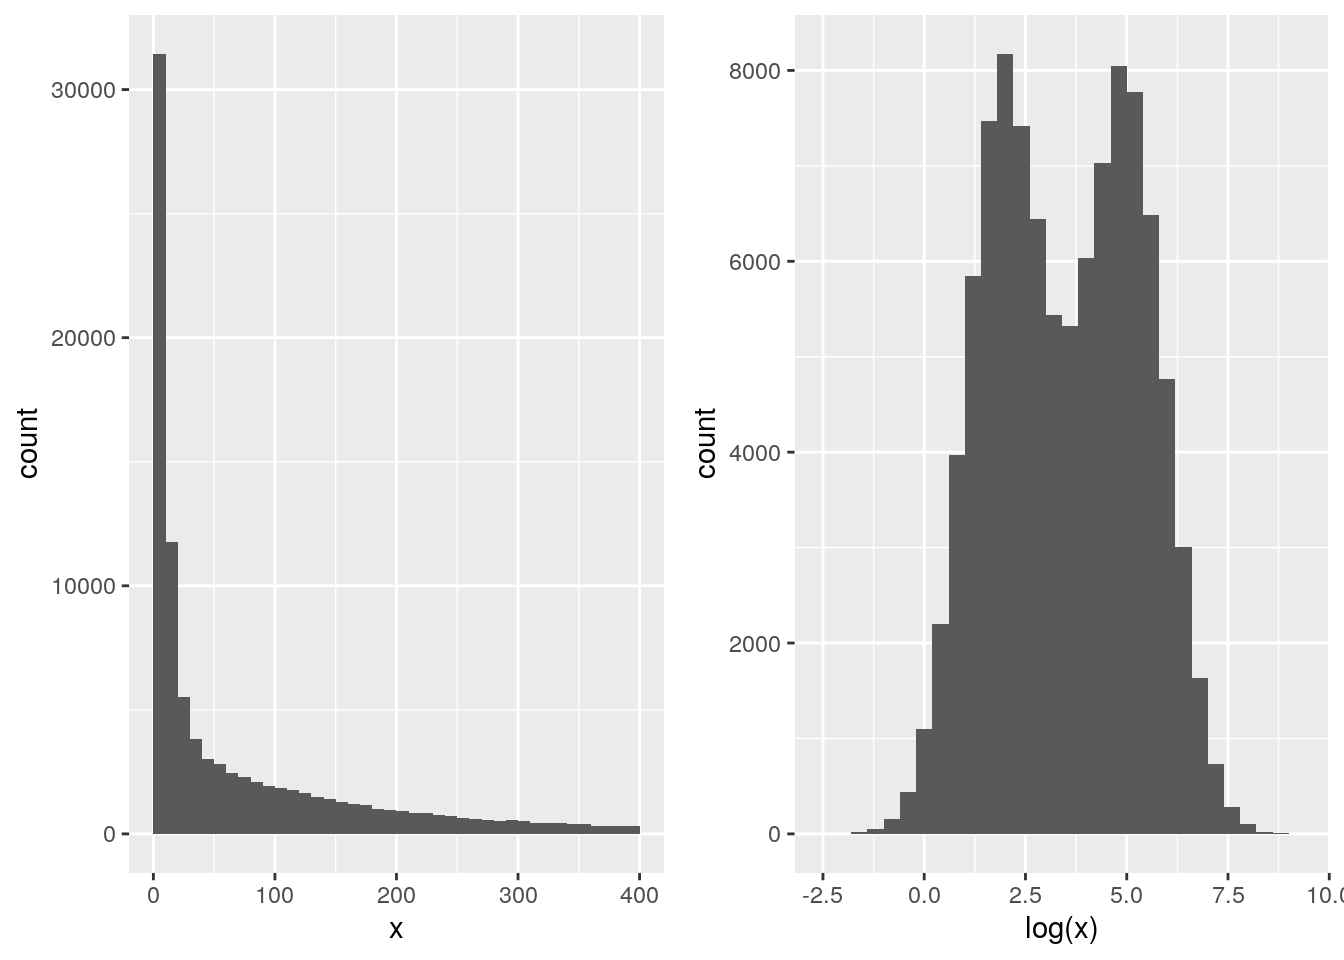
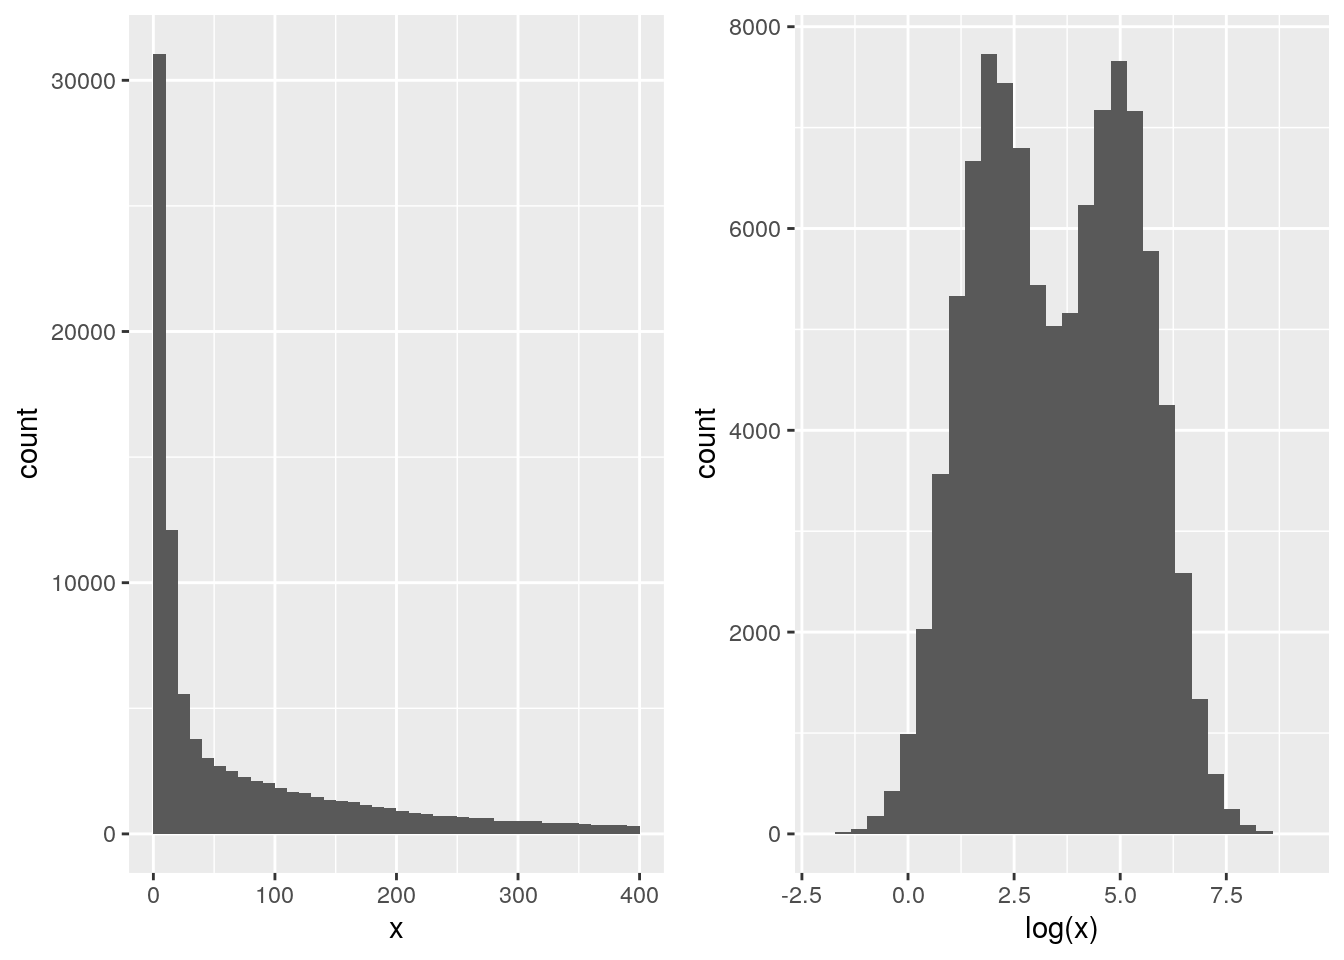
finish clust chap

diff --git a/docs/sec-ul.html b/docs/sec-ul.html
@@ -404,19 +404,8 @@ Figure 9.4: PCA analysis of the <code>giris</code> data, highlighting the origin
 </div>
 <div id="how-does-k-means-work" class="section level3 unnumbered">
 <h3>How does k-means work</h3>
-<p>The algorithm is as follows:</p>
-<ol style="list-style-type: decimal">
-<li>Start from a matrix of <em>n</em> features in <em>p</em> observations.</li>
-<li>
-<strong>Initisalistion</strong>: randomly assign the <em>p</em> obervations to <em>k</em> clusters.</li>
-<li>
-<strong>Iteration (1)</strong>: Calculate the centre of each subgroup as the average position of all observations is that subgroup.</li>
-<li>
-<strong>Iteration (2)</strong>: Each observation is then assigned to the group of its nearest centre.</li>
-<li>
-<strong>Termination</strong>: Repeat steps 3 and 4 until no obervation changes its cluster membership.</li>
-</ol>
-<p><strong>Initialisation</strong>: randomly assign class membership</p>
+<p>The algorithm starts from a matrix of <em>n</em> features in <em>p</em> observations and proceeds as follows:</p>
+<p><strong>Initialisation</strong>: randomly assign the <em>p</em> obervations to <em>k</em> clusters.</p>
 <div class="figure">
 <span id="fig:kmworksinit"></span>
 <p class="caption marginnote shownote">
@@ -436,7 +425,7 @@ Figure 9.5: k-means random intialisation
 Figure 9.6: k-means iteration: calculate centers (left) and assign new cluster membership (right)
 </p>
 </div>
-<p><strong>Termination</strong>: Repeat iteration until no point changes its cluster membership.</p>
+<p><strong>Termination</strong>: Repeat the iteration steps until no point changes its cluster membership.</p>
 <div class="figure" style="text-align: center">
 <span id="fig:unnamed-chunk-65"></span>
 <p class="caption marginnote shownote">
@@ -449,11 +438,6 @@ Figure 9.7: k-means convergence (credit Wikipedia).
 <h3>
 <span class="header-section-number">9.3.1</span> Model selection</h3>
 <p>Due to the random initialisation, one can obtain different clustering results.</p>
-<pre><code>##    
-##      1  2  3
-##   1  0 33  0
-##   2 38  0 58
-##   3  0 17  4</code></pre>
 <div class="figure fullwidth">
 <span id="fig:unnamed-chunk-66"></span>
 <img src="WSBIM1322_files/figure-html/unnamed-chunk-66-1.png" alt="Different k-means results on the same `girsi` data" width="960"><p class="caption marginnote shownote">
@@ -463,7 +447,7 @@ Figure 9.8: Different k-means results on the same <code>girsi</code> data
 <p>When k-means is run multiple times (as set by <code>nstart</code>), the best outcome, i.e. the one that generates the smallest <em>total within cluster sum of squares (SS)</em>, is selected. The total within SS is calculated as:</p>
 <p>For each cluster results:</p>
 <ul>
-<li>for each observation, determine the squared euclidean distance from observation to centre of cluster</li>
+<li>for each observation, determine the squared euclidean distance to centre of cluster</li>
 <li>sum all distances</li>
 </ul>
 <p>Note that this is a <strong>local minimum</strong>; there is no guarantee to obtain a global minimum.</p>
@@ -545,8 +529,7 @@ Figure 9.11: Visualisation of the hierarchical clustering results on a dendrogra
 <p>In R:</p>
 <ul>
 <li>Calculate the distance using <code>dist</code>, typically the Euclidean distance.</li>
-<li>Hierarchical clustering on this distance matrix using <code>hclust</code>
-</li>
+<li>Apply hierarchical clustering on this distance matrix using <code>hclust</code>.</li>
 </ul>
 <div class="question">
 <p class="question-begin">
@@ -581,6 +564,46 @@ hcl</code></pre></div>
 </p>
 </div>
 </div>
+<p>The <code>method</code> argument to <code>hclust</code> defines how the clusters are grouped together, which depends on how distances between a cluster and an obsevation (for example <em>(3, 5)</em> and <em>1</em> above), or between cluster (for example (<em>(2, 4)</em> and <em>(1, (3, 5))</em> above) are computed.</p>
+<p>The <strong>complete linkage</strong> (default) method defines the distances between clusters as the largest one between any to observations in them, while the <strong>single linkage</strong> (also called nearest neighbour method) will use the smallest distance between observations. The <strong>average linkage</strong> method is halfways between the two. <strong>Ward’s</strong> method takes an analysis of variance approach, and aims at minimising the variance within clusters.</p>
+<p>See <a href="https://www.huber.embl.de/msmb/Chap-Clustering.html#hierarchical-clustering">section 5.6</a> of <em>Modern Statistics of Modern Biology</em> <span class="citation">(Holmes and Huber <label for="tufte-mn-26" class="margin-toggle">⊕</label><input type="checkbox" id="tufte-mn-26" class="margin-toggle">2019<span class="marginnote">Holmes, Susan, and Wolfgang Huber. 2019. <em>Modern Statistics for Modern Biology</em>. Cambridge Univeristy Press.</span>)</span> for further details.</p>
+<div class="question">
+<p class="question-begin">
+► Question
+</p>
+<div class="question-body">
+<p>Using the <code>giris</code> example, compare the linkage methods presented above.</p>
+<p class="question-end">
+<span class="fa fa-square-o solution-icon"></span>
+</p>
+</div>
+</div>
+<div class="solution">
+<p class="solution-begin">
+► Solution<span id="sol-start-60" class="fa fa-plus-square solution-icon clickable" onclick="toggle_visibility('sol-body-60', 'sol-start-60')"></span>
+</p>
+<div id="sol-body-60" class="solution-body" style="display: none;">
+<div class="sourceCode"><pre class="sourceCode r"><code class="sourceCode r">d &lt;-<span class="st"> </span><span class="kw">dist</span>(giris[, <span class="dv">-5</span>])
+hcl_complete &lt;-<span class="st"> </span><span class="kw">hclust</span>(d, <span class="dt">method =</span> <span class="st">"complete"</span>)
+hcl_single &lt;-<span class="st"> </span><span class="kw">hclust</span>(d, <span class="dt">method =</span> <span class="st">"single"</span>)
+hcl_average &lt;-<span class="st"> </span><span class="kw">hclust</span>(d, <span class="dt">method =</span> <span class="st">"average"</span>)
+hcl_ward &lt;-<span class="st"> </span><span class="kw">hclust</span>(d, <span class="dt">method =</span> <span class="st">"ward.D"</span>)
+<span class="kw">par</span>(<span class="dt">mfrow =</span> <span class="kw">c</span>(<span class="dv">2</span>, <span class="dv">2</span>))
+<span class="kw">plot</span>(hcl_complete)
+<span class="kw">plot</span>(hcl_single)
+<span class="kw">plot</span>(hcl_average)
+<span class="kw">plot</span>(hcl_ward)</code></pre></div>
+<div class="figure fullwidth">
+<span id="fig:linkcomp"></span>
+<img src="WSBIM1322_files/figure-html/linkcomp-1.png" alt="Effect of using different linkage methods." width="768"><p class="caption marginnote shownote">
+Figure 9.12: Effect of using different linkage methods.
+</p>
+</div>
+<p class="solution-end">
+<span class="fa fa-square-o solution-icon"></span>
+</p>
+</div>
+</div>
 </div>
 <div id="defining-clusters" class="section level3">
 <h3>
@@ -589,7 +612,7 @@ hcl</code></pre></div>
 <div class="figure">
 <span id="fig:cuthcl"></span>
 <p class="caption marginnote shownote">
-Figure 9.12: Cutting the dendrogram at height 1.5.
+Figure 9.13: Cutting the dendrogram at height 1.5.
 </p>
 <img src="WSBIM1322_files/figure-html/cuthcl-1.png" alt="Cutting the dendrogram at height 1.5." width="672">
 </div>
@@ -616,9 +639,9 @@ Figure 9.12: Cutting the dendrogram at height 1.5.
 </div>
 <div class="solution">
 <p class="solution-begin">
-► Solution<span id="sol-start-60" class="fa fa-plus-square solution-icon clickable" onclick="toggle_visibility('sol-body-60', 'sol-start-60')"></span>
+► Solution<span id="sol-start-61" class="fa fa-plus-square solution-icon clickable" onclick="toggle_visibility('sol-body-61', 'sol-start-61')"></span>
 </p>
-<div id="sol-body-60" class="solution-body" style="display: none;">
+<div id="sol-body-61" class="solution-body" style="display: none;">
 <div class="sourceCode"><pre class="sourceCode r"><code class="sourceCode r"><span class="kw">plot</span>(hcl)
 <span class="kw">abline</span>(<span class="dt">h =</span> <span class="fl">3.9</span>, <span class="dt">col =</span> <span class="st">"red"</span>)</code></pre></div>
 <p><img src="WSBIM1322_files/figure-html/cuthclsol-1.png" width="672"></p>
@@ -662,9 +685,9 @@ Figure 9.12: Cutting the dendrogram at height 1.5.
 </div>
 <div class="solution">
 <p class="solution-begin">
-► Solution<span id="sol-start-61" class="fa fa-plus-square solution-icon clickable" onclick="toggle_visibility('sol-body-61', 'sol-start-61')"></span>
+► Solution<span id="sol-start-62" class="fa fa-plus-square solution-icon clickable" onclick="toggle_visibility('sol-body-62', 'sol-start-62')"></span>
 </p>
-<div id="sol-body-61" class="solution-body" style="display: none;">
+<div id="sol-body-62" class="solution-body" style="display: none;">
 <div class="sourceCode"><pre class="sourceCode r"><code class="sourceCode r"><span class="kw">boxplot</span>(mtcars)</code></pre></div>
 <p><img src="WSBIM1322_files/figure-html/scalesol-1.png" width="1152"></p>
 <div class="sourceCode"><pre class="sourceCode r"><code class="sourceCode r">hcl1 &lt;-<span class="st"> </span><span class="kw">hclust</span>(<span class="kw">dist</span>(mtcars))
@@ -705,31 +728,6 @@ hcl2 &lt;-<span class="st"> </span><span class="kw">hclust</span>(<span class="k
 </p>
 </div>
 </div>
-<div class="sourceCode"><pre class="sourceCode r"><code class="sourceCode r">km &lt;-<span class="st"> </span><span class="kw">kmeans</span>(giris[, <span class="dv">-5</span>], <span class="dt">centers =</span> <span class="dv">3</span>, <span class="dt">nstart =</span> <span class="dv">10</span>)
-
-hcl &lt;-<span class="st"> </span><span class="kw">hclust</span>(<span class="kw">dist</span>(giris[, <span class="dv">-5</span>]))
-hcl_res &lt;-<span class="st"> </span><span class="kw">cutree</span>(hcl, <span class="dt">k =</span> <span class="dv">3</span>)
-<span class="kw">table</span>(km<span class="op">$</span>cluster, hcl_res)
-
-pca &lt;-<span class="st"> </span><span class="kw">prcomp</span>(giris[, <span class="dv">-5</span>], <span class="dt">scale =</span> <span class="ot">TRUE</span>, <span class="dt">center =</span> <span class="ot">TRUE</span>)
-
-<span class="kw">library</span>(<span class="st">"factoextra"</span>)
-<span class="kw">library</span>(<span class="st">"patchwork"</span>)
-p1 &lt;-<span class="st"> </span><span class="kw">fviz_pca_ind</span>(pca, <span class="dt">habillage =</span> km<span class="op">$</span>cluster) <span class="op">+</span>
-<span class="st">    </span><span class="kw">labs</span>(<span class="dt">title =</span> <span class="st">"kmeans"</span>)
-p2 &lt;-<span class="st"> </span><span class="kw">fviz_pca_ind</span>(pca, <span class="dt">habillage =</span> hcl_res) <span class="op">+</span>
-<span class="st">    </span><span class="kw">labs</span>(<span class="dt">title =</span> <span class="st">"hclust"</span>)
-
-p1 <span class="op">+</span><span class="st"> </span>p2
-
-## comparison with expercted results
-<span class="kw">table</span>(km<span class="op">$</span>cluster, giris<span class="op">$</span>GRADE)
-<span class="kw">table</span>(hcl_res, giris<span class="op">$</span>GRADE)
-
-p3 &lt;-<span class="st">  </span><span class="kw">fviz_pca_ind</span>(pca, <span class="dt">habillage =</span> giris<span class="op">$</span>GRADE) <span class="op">+</span>
-<span class="st">    </span><span class="kw">labs</span>(<span class="dt">title =</span> <span class="st">"GRADE"</span>)
-
-p1 <span class="op">+</span><span class="st"> </span>p2 <span class="op">+</span><span class="st"> </span>p3</code></pre></div>
 
 </div>
 </div></body></html>

diff --git a/docs/sec-vis.html b/docs/sec-vis.html
@@ -720,7 +720,7 @@ p1 &lt;-<span class="st">  </span><span class="kw">ggplot</span>(sim, <span clas
 p2 &lt;-<span class="st">  </span><span class="kw">ggplot</span>(sim, <span class="kw">aes</span>(<span class="kw">log</span>(x))) <span class="op">+</span>
 <span class="st">    </span><span class="kw">geom_histogram</span>(<span class="dt">bins =</span> <span class="dv">30</span>)
 p1 <span class="op">+</span><span class="st"> </span>p2</code></pre></div>
-<pre><code>## Warning: Removed 8069 rows containing non-finite values (stat_bin).</code></pre>
+<pre><code>## Warning: Removed 8214 rows containing non-finite values (stat_bin).</code></pre>
 <div class="figure">
 <span id="fig:sim"></span>
 <p class="caption marginnote shownote">
